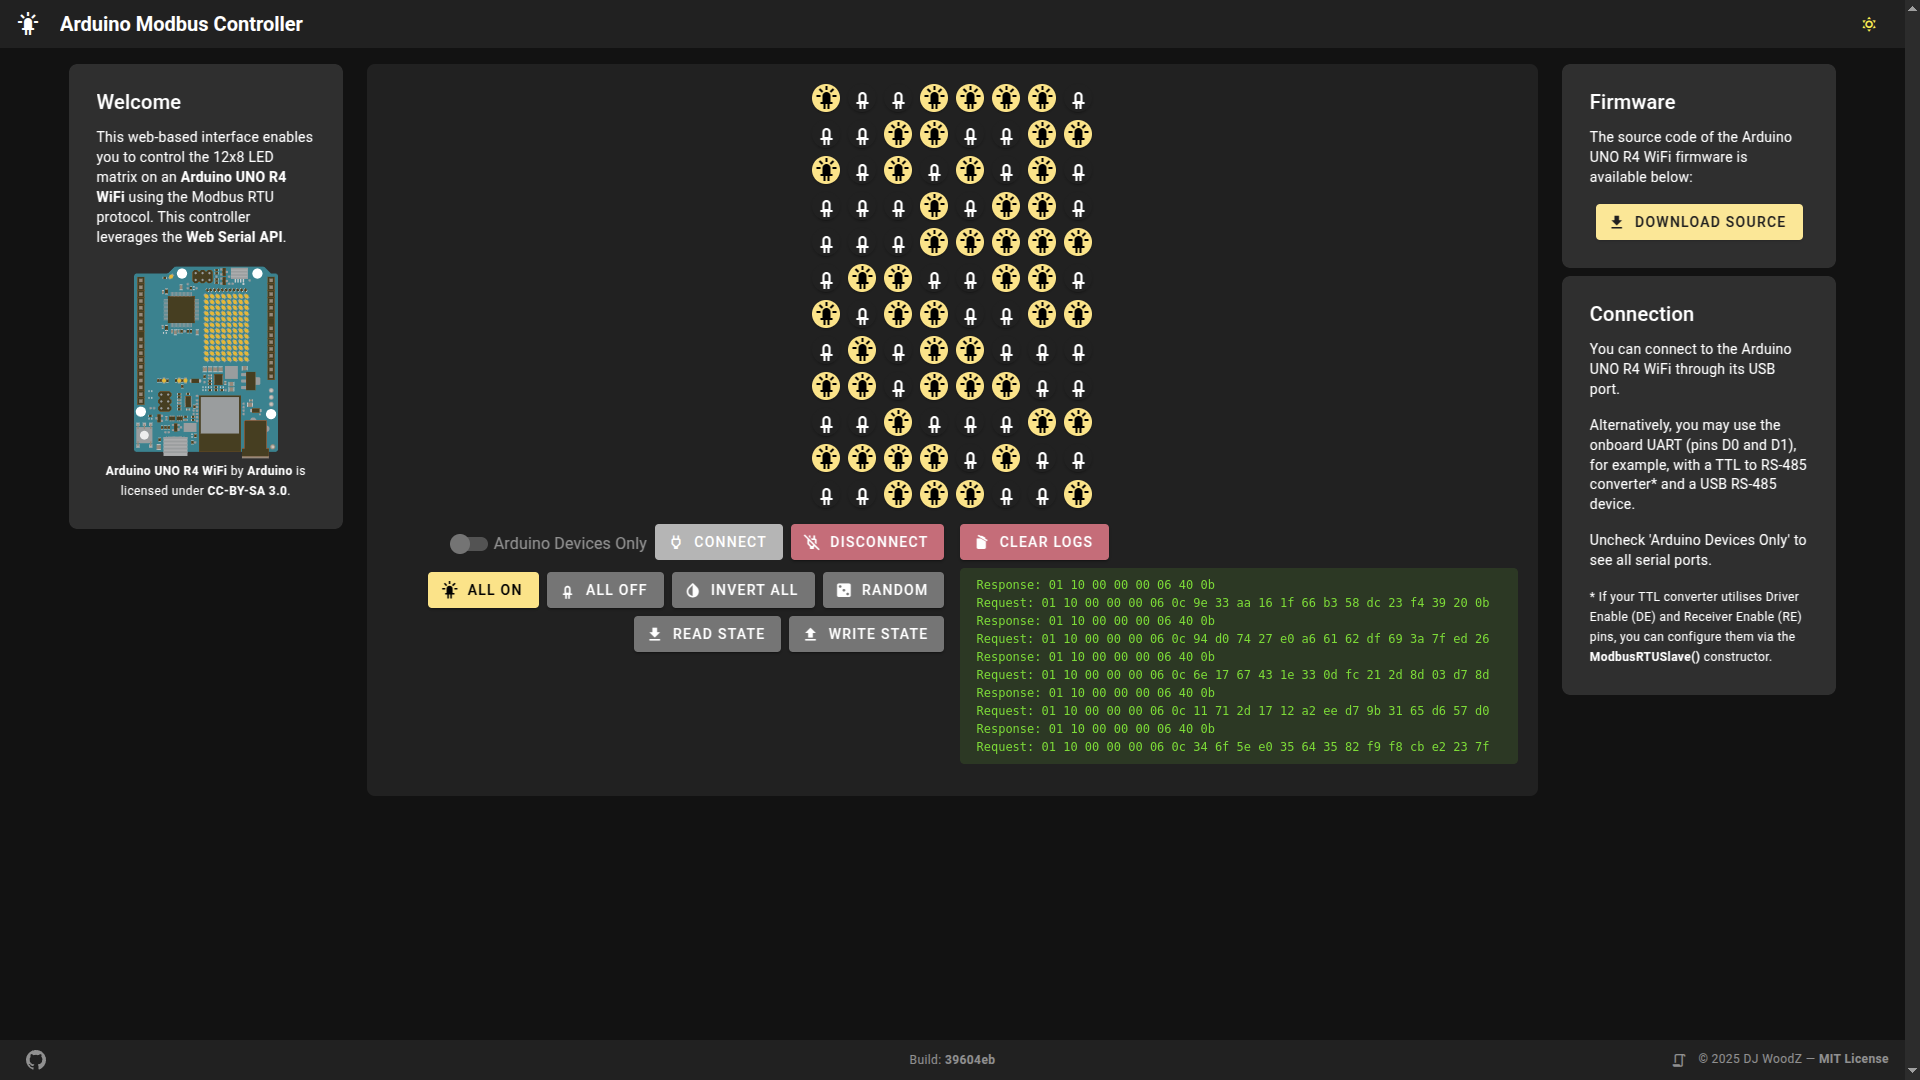
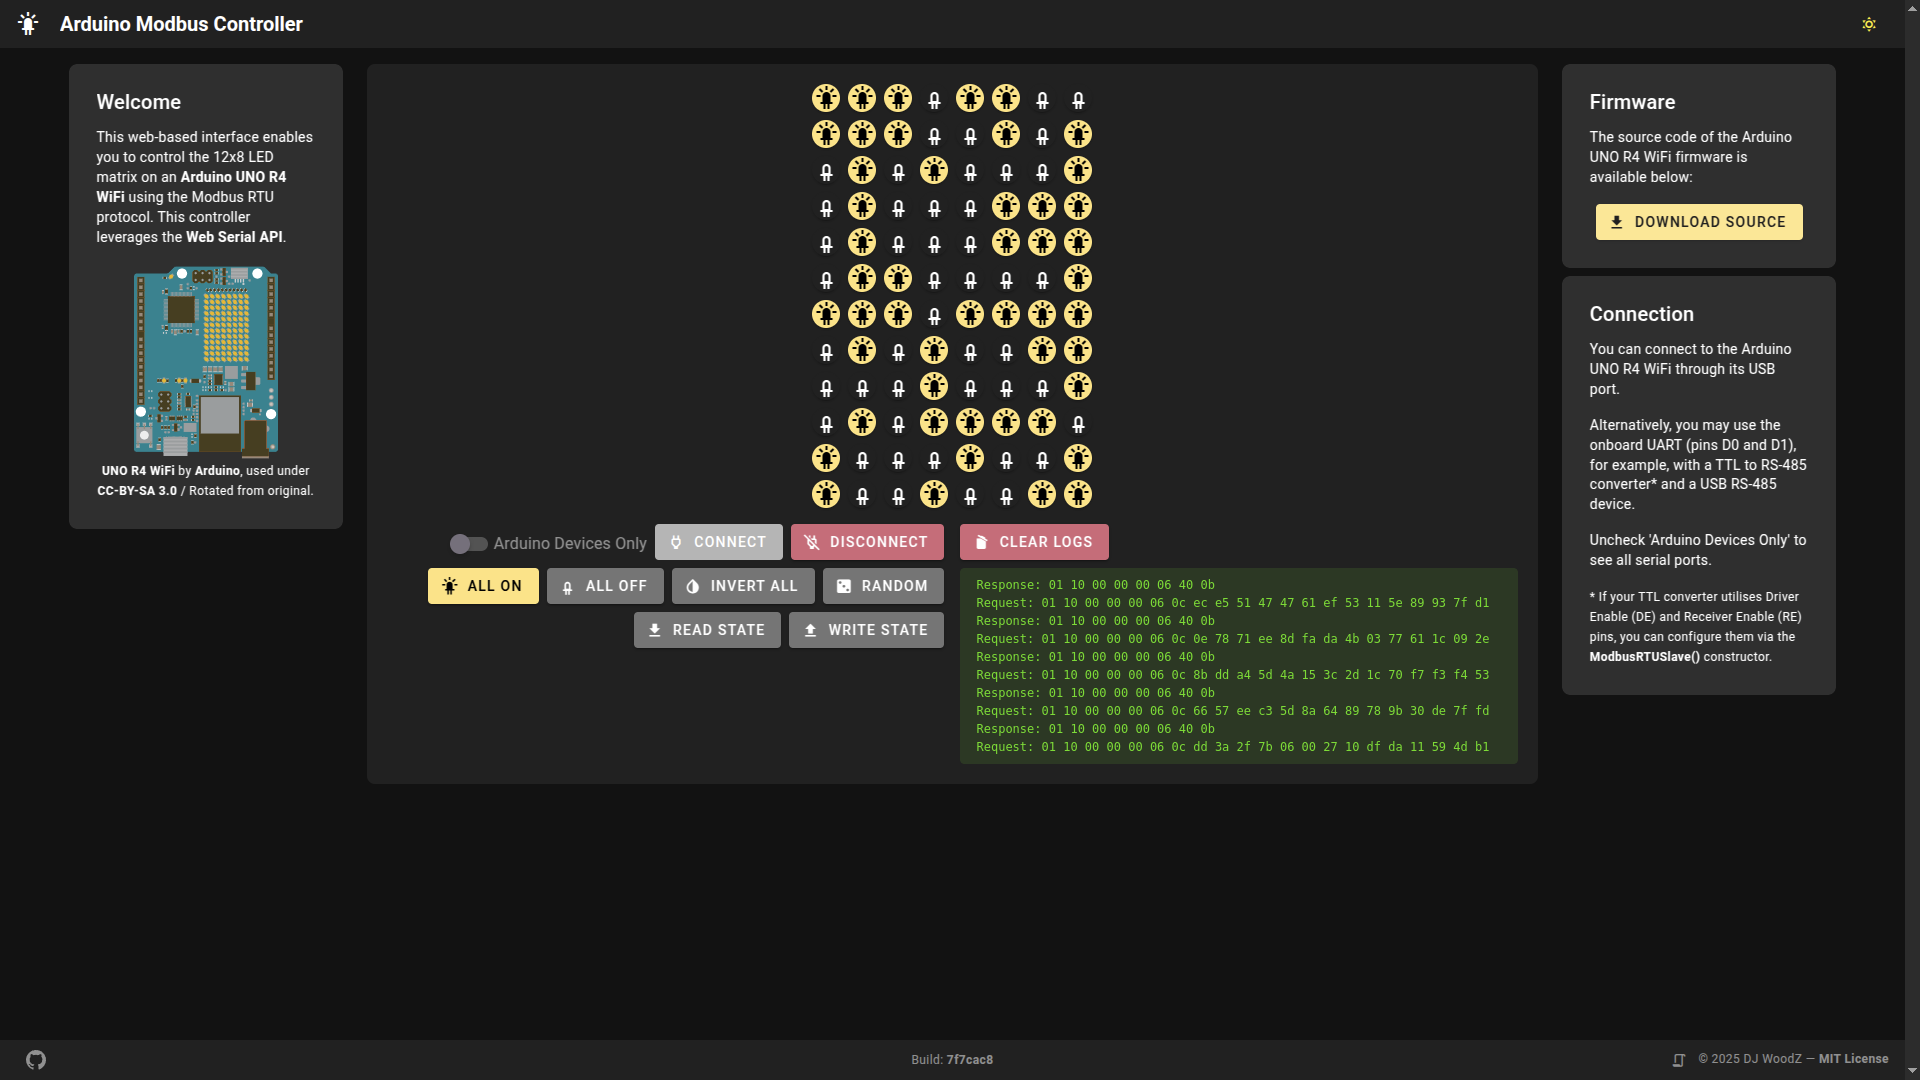
Update Arduino image

diff --git a/src/layouts/three-columns.vue b/src/layouts/three-columns.vue
@@ -40,21 +40,9 @@
 
                 <template #default="{ isActive }">
                   <v-card title="Arduino UNO R4 WiFi">
-                    <v-card-text class="text-center text-caption">
+                    <v-card-text>
                       <v-img alt="Arduino UNO R4 WiFi" max-height="400px" src="/images/uno-r4-wifi.svg" />
-                      <p><a
-                        href="https://docs.arduino.cc/hardware/uno-r4-wifi/"
-                        rel="noopener noreferrer"
-                        target="_blank"
-                      >Arduino UNO R4 WiFi</a> by <a
-                        href="https://arduino.cc/"
-                        rel="noopener noreferrer"
-                        target="_blank"
-                      >Arduino</a> is licensed under <a
-                        href="hhttps://creativecommons.org/licenses/by-sa/3.0/legalcode"
-                        rel="noopener noreferrer"
-                        target="_blank"
-                      >CC-BY-SA 3.0</a>.</p>
+                      <ArduinoUNOR4Image />
                     </v-card-text>
 
                     <template #actions>
@@ -68,20 +56,7 @@
                 </template>
               </v-dialog>
 
-
-              <p class="text-center text-caption"><a
-                href="https://docs.arduino.cc/hardware/uno-r4-wifi/"
-                rel="noopener noreferrer"
-                target="_blank"
-              >Arduino UNO R4 WiFi</a> by <a
-                href="https://arduino.cc/"
-                rel="noopener noreferrer"
-                target="_blank"
-              >Arduino</a> is licensed under <a
-                href="https://creativecommons.org/licenses/by-sa/3.0/legalcode"
-                rel="noopener noreferrer"
-                target="_blank"
-              >CC-BY-SA 3.0</a>.</p>
+              <ArduinoUNOR4Image />
             </v-card-text>
           </v-card>
         </v-col>

diff --git a/src/components/ArduinoUNOR4Image.vue b/src/components/ArduinoUNOR4Image.vue
@@ -1,0 +1,15 @@
+<template>
+  <p class="text-center text-caption"><a
+    href="https://docs.arduino.cc/hardware/uno-r4-wifi/"
+    rel="noopener noreferrer"
+    target="_blank"
+  >UNO R4 WiFi</a> by <a
+    href="https://arduino.cc/"
+    rel="noopener noreferrer"
+    target="_blank"
+  >Arduino</a>, used under <a
+    href="hhttps://creativecommons.org/licenses/by-sa/3.0/legalcode"
+    rel="noopener noreferrer"
+    target="_blank"
+  >CC-BY-SA 3.0</a> / Rotated from original.</p>
+</template>

diff --git a/components.d.ts b/components.d.ts
@@ -10,6 +10,7 @@ declare module 'vue' {
   export interface GlobalComponents {
     AppFooter: typeof import('./src/components/AppFooter.vue')['default']
     ArduinoModbusController: typeof import('./src/components/ArduinoModbusController.vue')['default']
+    ArduinoUNOR4Image: typeof import('./src/components/ArduinoUNOR4Image.vue')['default']
     RouterLink: typeof import('vue-router')['RouterLink']
     RouterView: typeof import('vue-router')['RouterView']
   }
